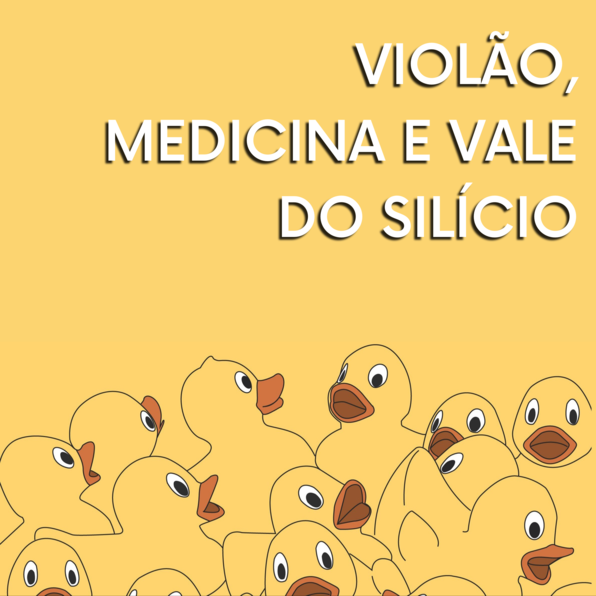
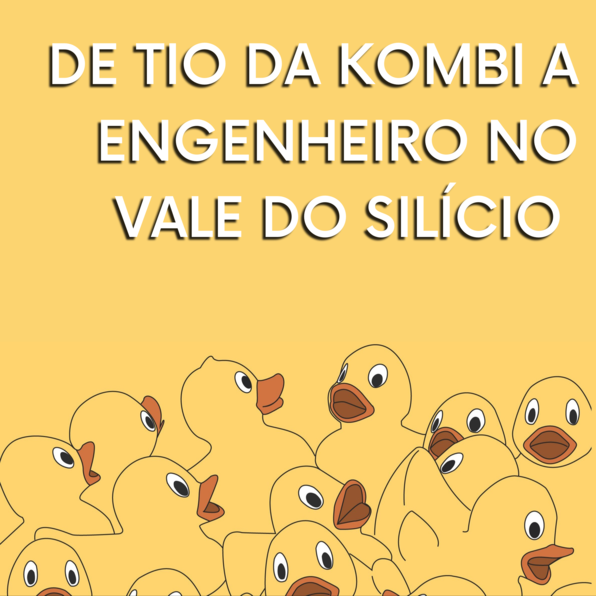
Update S01.E02

Changed region(s): [[0.0604, 0.0302, 0.9664, 0.4228]]

diff --git a/index.html b/index.html
@@ -173,9 +173,9 @@
             </p>
             <!-- Alexandre Zaghetto -->
             <p id="Alexandre_Zaghetto" class="description mb-4 tm-intro-text text-justify">
-              S01.E02: Alexandre Zaghetto - Violão, Medicina e Vale do Silício</br>
+              S01.E02: Alexandre Zaghetto - De Tio da Kombi a Engenheiro no Vale do Silício</br>
               </br>
-              Neste episódio, Alexandre Zaghetto conta sua história de vida desde sua infância até chegar na Sony do Vale do Silício. Já se perguntou como violão, medicina e engenharia podem te levar tão longe? Coloque seu fone de ouvido, pegue um lanchinho leve e venha nessa viagem!</br>
+              Neste episódio, Alexandre Zaghetto conta sua história de vida desde sua infância até chegar na Sony do Vale do Silício. Já se perguntou como o tio da Kombi chegou até o Vale do Silício? Coloque seu fone de ouvido, pegue um lanchinho leve e venha nessa viagem!</br>
               </br>
               <iframe loading="lazy" src="https://open.spotify.com/embed-podcast/episode/1Bwn8iMBnNvOVmg7CKjqR0" width="100%" height="232" frameborder="0" allowtransparency="true" allow="encrypted-media"></iframe>
 
